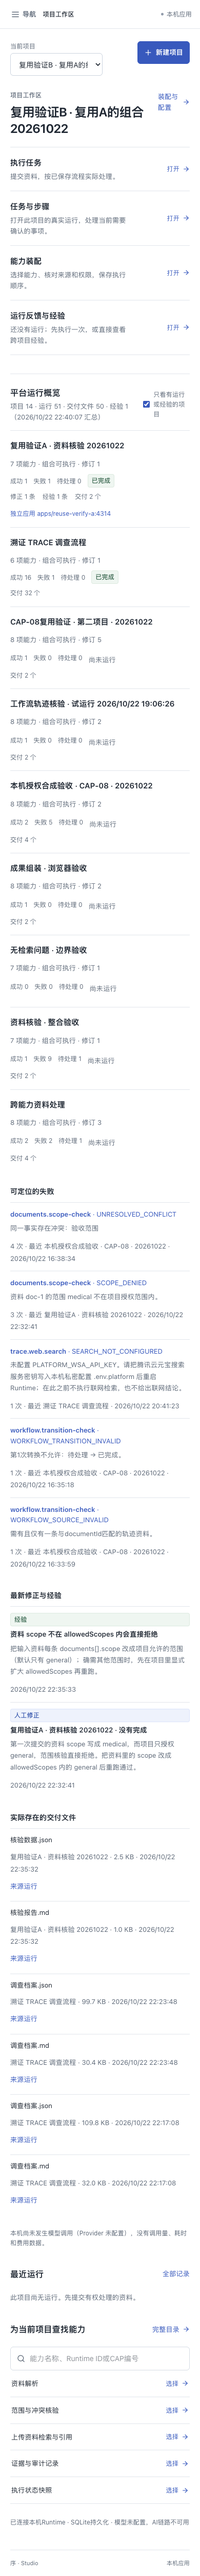
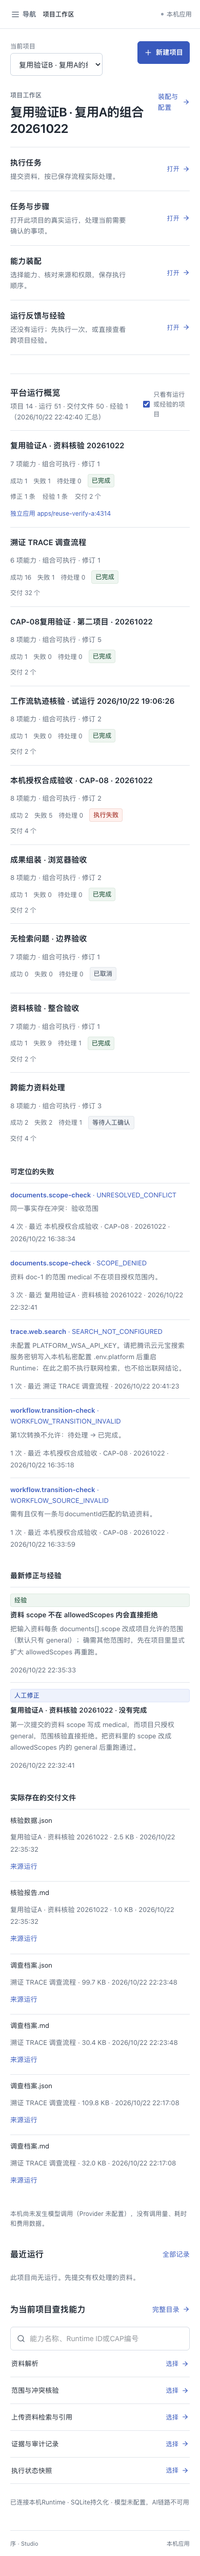
fix(overview): 每个项目取自己的最近一次运行，交付文件数改为按项目聚合
之前只取全局最近 12 条运行，有历史但不在其中的项目会被误显示为「尚未运行」；
交付文件数原来按行反查项目，改为一次聚合查询。概览数字全部对齐 SQLite 真实记录。

diff --git a/services/runtime/src/product.ts b/services/runtime/src/product.ts
@@ -914,6 +914,12 @@ export function registerProductEndpoints(
         row.project_id,
         (feedbackByProject.get(row.project_id) || 0) + 1,
       );
+    const artifactCountByProject = new Map<string, number>();
+    for (const row of store.all(
+      "SELECT r.project_id,COUNT(*) AS count FROM artifacts a JOIN runs r ON r.id=a.run_id GROUP BY r.project_id",
+    ))
+      artifactCountByProject.set(row.project_id, Number(row.count));
+
 
     const byStatus: Record<string, number> = {};
     const projectRunStats = new Map<
@@ -991,7 +997,11 @@ export function registerProductEndpoints(
           pending: 0,
           total: 0,
         };
-        const last = lastRuns.find((r) => r.project_id === row.id);
+        // 每个项目自己的最近一次运行，不能只看全局最近 12 条，否则有历史的项目会被误显示为“尚未运行”。
+        const last = store.get(
+          "SELECT id,status,created_at,input FROM runs WHERE project_id=? ORDER BY created_at DESC LIMIT 1",
+          row.id,
+        );
         const application = applicationRows.find(
           (a) => a.project_id === row.id,
         );
@@ -1023,13 +1033,7 @@ export function registerProductEndpoints(
             : null,
           feedbackCount: feedbackByProject.get(row.id) || 0,
           experienceCount: experienceByProject.get(row.id) || 0,
-          artifacts: artifactRows.filter((a) => {
-            const run = store.get(
-              "SELECT project_id FROM runs WHERE id=?",
-              a.run_id,
-            );
-            return run?.project_id === row.id;
-          }).length,
+          artifacts: artifactCountByProject.get(row.id) || 0,
           application: application ? applicationRecord(application) : null,
         };
       }),
